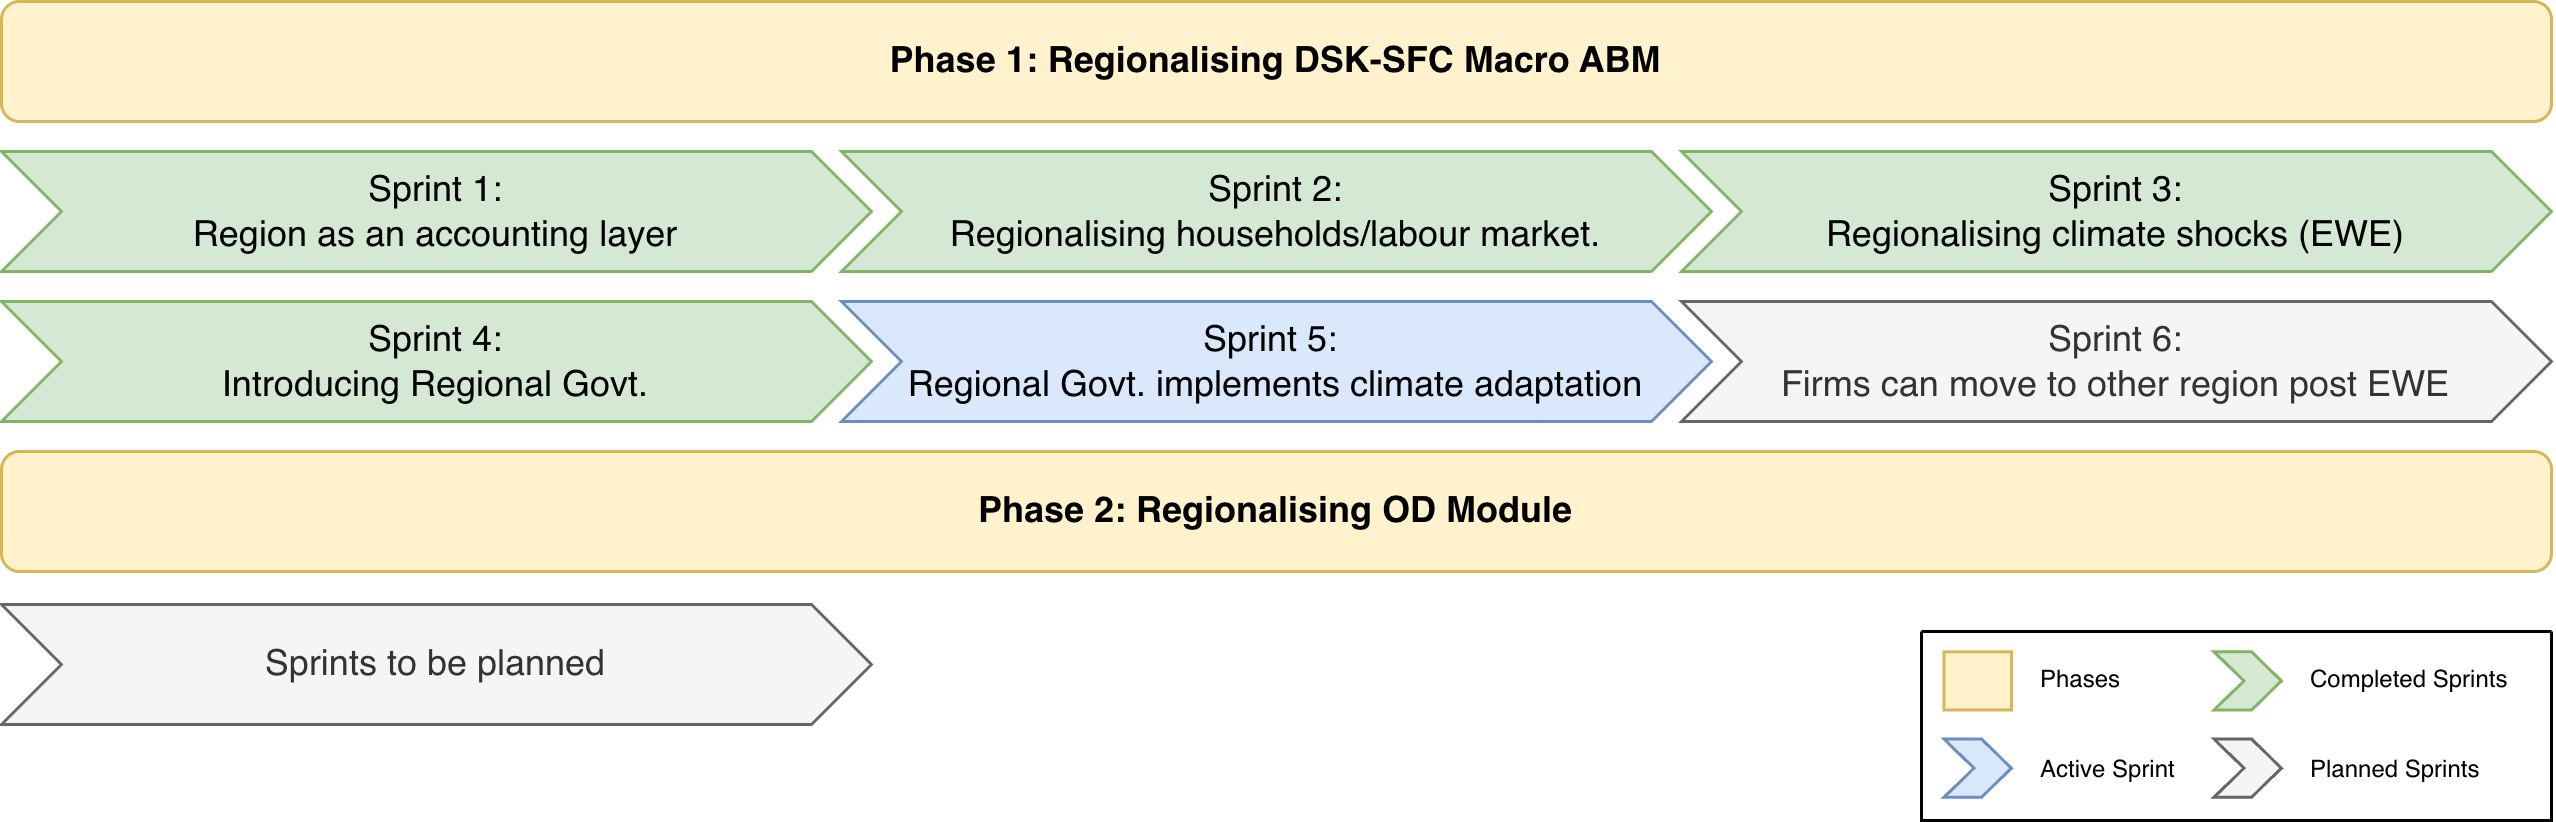
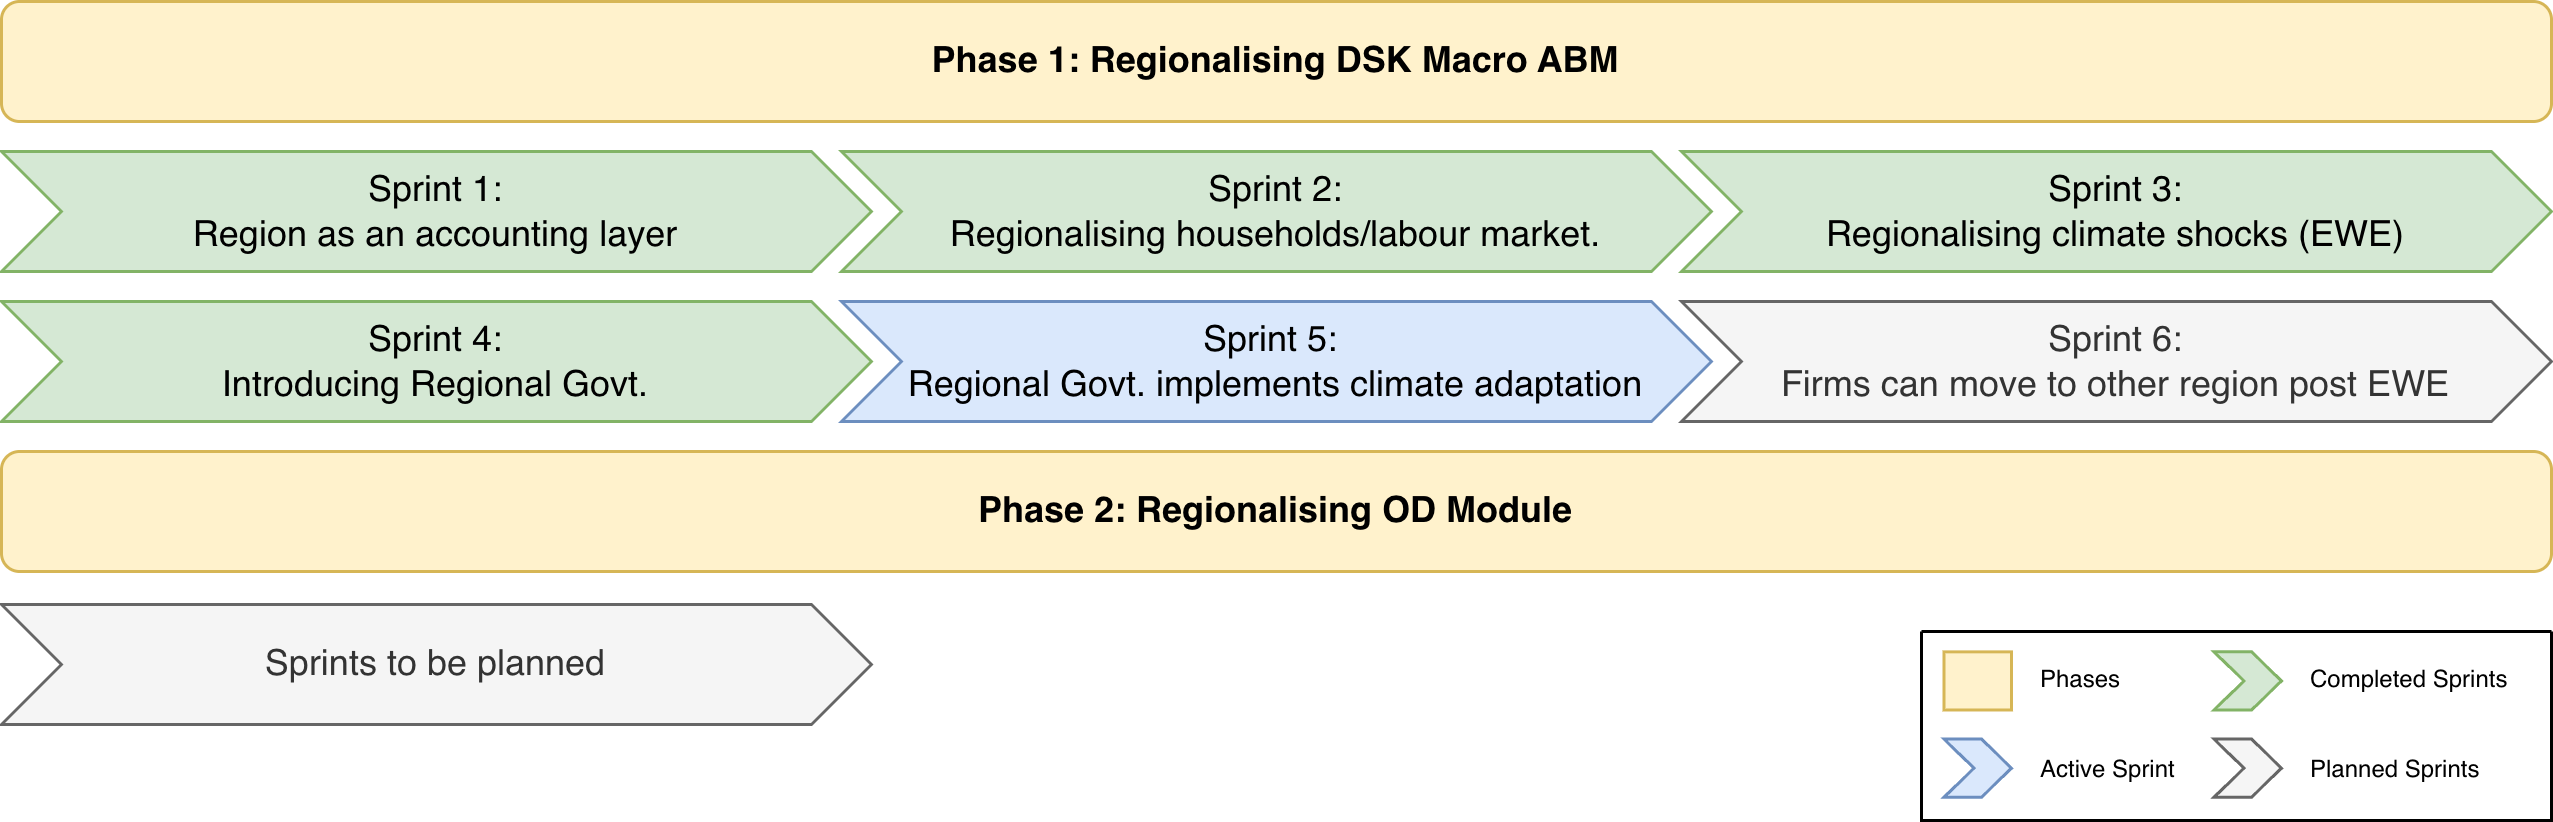
Refactor code structure for improved readability and maintainability

diff --git a/index.html b/index.html
@@ -103,7 +103,7 @@
                     </div>
 
                     <br>
-                    <img src="assets/ABM_Model-sprint.png" alt="ABM Model Sprint Planning"
+                    <img src="assets/ABM_Model-story.png" alt="ABM Model Sprint Planning"
                         style="max-width:100%; margin-top:1rem; border-radius:8px;">
                     <br>
                 </div>
